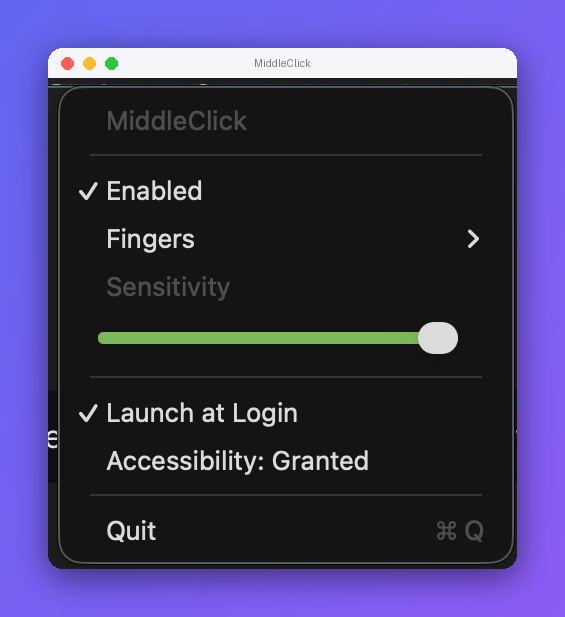
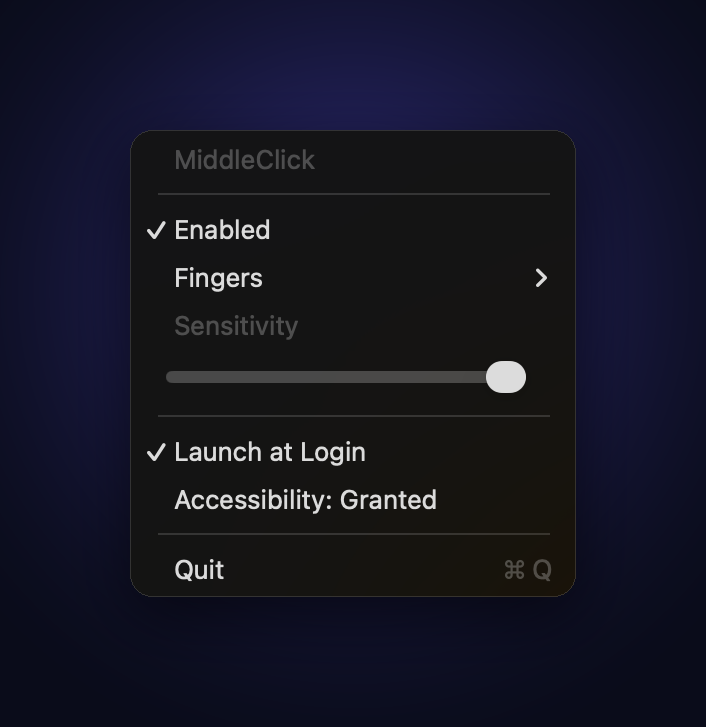
Improve mockup and switch landing page to dark theme

diff --git a/docs/index.html b/docs/index.html
@@ -6,52 +6,60 @@
 <title>MiddleClick</title>
 <style>
   :root {
-    --grad-a: #6366f1;
-    --grad-b: #8b5cf6;
-    --ink: #0f172a;
-    --muted: #64748b;
-    --card: #ffffff;
+    --ink: #e7eaf6;
+    --muted: #9aa3c4;
+    --card: #161b2e;
+    --border: rgba(255,255,255,0.08);
+    --accent: #818cf8;
   }
   * { box-sizing: border-box; margin: 0; padding: 0; }
   body {
     font-family: -apple-system, BlinkMacSystemFont, "Segoe UI", system-ui, sans-serif;
     color: var(--ink);
-    background: radial-gradient(1200px 600px at 50% -10%, var(--grad-b), var(--grad-a) 60%, #4338ca);
+    background:
+      radial-gradient(900px 520px at 50% -8%, rgba(99,102,241,0.35), transparent 70%),
+      linear-gradient(180deg, #0b0f20 0%, #080a16 100%);
+    background-color: #080a16;
     min-height: 100vh;
     -webkit-font-smoothing: antialiased;
   }
   .wrap { max-width: 860px; margin: 0 auto; padding: 72px 24px 96px; text-align: center; }
   h1 { font-size: clamp(2.2rem, 6vw, 3.4rem); color: #fff; letter-spacing: -0.02em; }
-  .tagline { color: rgba(255,255,255,0.85); font-size: clamp(1rem, 2.5vw, 1.35rem); margin-top: 14px; }
-  .shot { margin: 44px auto 0; max-width: 100%; border-radius: 16px;
-          box-shadow: 0 30px 80px rgba(0,0,0,0.35); display: block; }
+  .tagline { color: rgba(231,234,246,0.72); font-size: clamp(1rem, 2.5vw, 1.35rem); margin-top: 14px; }
+  .shot { margin: 44px auto 0; max-width: 100%; border-radius: 18px;
+          box-shadow: 0 30px 90px rgba(0,0,0,0.6); display: block;
+          border: 1px solid var(--border); }
   .cta {
     display: inline-flex; align-items: center; gap: 10px; margin-top: 40px;
-    background: #fff; color: var(--ink); font-size: 1.15rem; font-weight: 600;
+    background: linear-gradient(180deg, #6366f1, #4f46e5); color: #fff;
+    font-size: 1.15rem; font-weight: 600;
     padding: 16px 30px; border-radius: 999px; text-decoration: none;
-    box-shadow: 0 12px 30px rgba(0,0,0,0.25); transition: transform .12s ease, box-shadow .12s ease;
+    box-shadow: 0 12px 34px rgba(79,70,229,0.5); transition: transform .12s ease, box-shadow .12s ease;
   }
-  .cta:hover { transform: translateY(-2px); box-shadow: 0 16px 36px rgba(0,0,0,0.3); }
-  .cta small { color: var(--muted); font-weight: 500; }
+  .cta:hover { transform: translateY(-2px); box-shadow: 0 16px 42px rgba(79,70,229,0.6); }
+  .cta small { color: rgba(255,255,255,0.75); font-weight: 500; }
   .howto {
     margin: 56px auto 0; max-width: 640px; text-align: left;
-    background: var(--card); border-radius: 16px; padding: 28px 30px;
-    box-shadow: 0 12px 40px rgba(0,0,0,0.18); scroll-margin-top: 24px;
+    background: var(--card); border: 1px solid var(--border);
+    border-radius: 16px; padding: 28px 30px;
+    box-shadow: 0 12px 40px rgba(0,0,0,0.4); scroll-margin-top: 24px;
     transition: box-shadow .3s ease, outline-color .3s ease;
     outline: 2px solid transparent;
   }
-  .howto.flash { outline-color: #fff; box-shadow: 0 0 0 6px rgba(255,255,255,0.5), 0 12px 40px rgba(0,0,0,0.25); }
-  .howto h2 { font-size: 1.3rem; margin-bottom: 6px; }
+  .howto.flash { outline-color: var(--accent); box-shadow: 0 0 0 6px rgba(129,140,248,0.35), 0 12px 40px rgba(0,0,0,0.5); }
+  .howto h2 { font-size: 1.3rem; margin-bottom: 6px; color: #fff; }
   .howto p { color: var(--muted); margin: 10px 0; line-height: 1.55; }
+  .howto strong { color: var(--ink); }
   .howto ol { margin: 14px 0 0 20px; }
   .howto li { margin: 12px 0; line-height: 1.55; }
   code { font-family: ui-monospace, SFMono-Regular, Menlo, monospace;
-         background: #f1f5f9; padding: 2px 7px; border-radius: 6px; font-size: .92em; }
-  pre { background: #0f172a; color: #e2e8f0; padding: 14px 16px; border-radius: 10px;
-        overflow-x: auto; margin-top: 10px; }
+         background: rgba(255,255,255,0.08); color: #c7d2fe;
+         padding: 2px 7px; border-radius: 6px; font-size: .92em; }
+  pre { background: #05070f; color: #e2e8f0; padding: 14px 16px; border-radius: 10px;
+        overflow-x: auto; margin-top: 10px; border: 1px solid var(--border); }
   pre code { background: none; color: inherit; padding: 0; }
-  footer { color: rgba(255,255,255,0.75); margin-top: 64px; font-size: .9rem; }
-  footer a { color: #fff; }
+  footer { color: rgba(231,234,246,0.6); margin-top: 64px; font-size: .9rem; }
+  footer a { color: var(--accent); }
 </style>
 </head>
 <body>